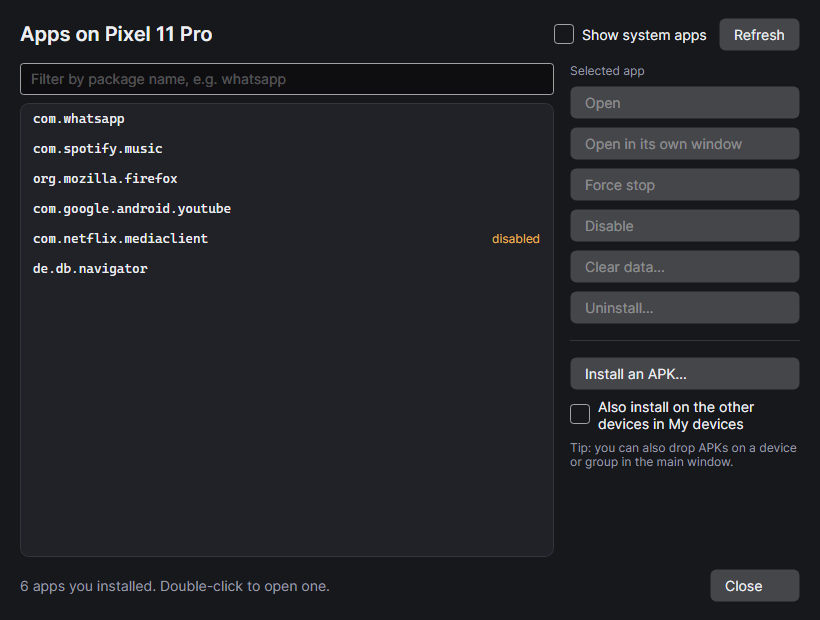
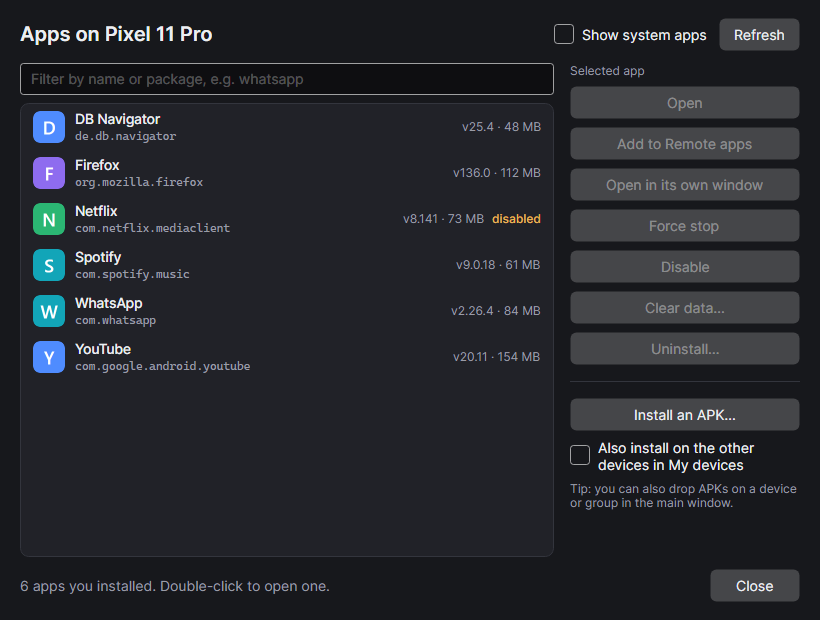
Prepare 1.0.0-beta.5 release: changelog, README, and refreshed screenshots
- Bump Paneless.App version to 1.0.0-beta.5
- Add 1.0.0-beta.5 release notes to CHANGELOG.md covering Phone-to-PC tools, MCP updates, UI polish, Android 17/HyperOS fixes, and idle battery savings
- Update README.md with zero-install Phone-to-PC tools (Files & photos, clipboard sync, Quick controls, Locate device, OTP auto-copy, app handoff), battery optimizations, Settings backup/reset, updated MCP permissions table, and accurate helper/privacy notes
- Refresh 7 screenshots (settings, device-settings, apps, remote-apps, automation, inventory, toolbar) and add files.png and controls.png

diff --git a/README.md b/README.md
@@ -12,9 +12,10 @@
 </p>
 
 <p align="center">
-  <b>Painless screen mirroring, Remote apps and device management for your Android devices.</b><br>
+  <b>Painless screen mirroring, Remote apps, Phone-to-PC sync and device management for Android.</b><br>
   Connects phones, tablets and watches over Wi-Fi or USB, mirrors any screen with one click,<br>
-  runs Android apps like native Windows programs with their own icons and shortcuts, and manages one device or a whole fleet at once.<br>
+  runs Android apps like native Windows programs with their own icons and shortcuts, syncs files, clipboard and quick controls,<br>
+  and manages one device or a whole fleet — with <b>no Android app to install</b>.<br>
   Built on <a href="https://github.com/Genymobile/scrcpy">scrcpy</a>, with an interface made with <a href="https://avaloniaui.net/">Avalonia</a>.
 </p>
 
@@ -54,14 +55,15 @@
 
 - **See:** a live list of every device over Wi-Fi or USB, with status and battery, and their screens on your PC with a toolbar on every mirror.
 - **Run Android apps like PC programs (Remote apps):** open any app in its own resizable window with its real icon, taskbar button, and desktop/Start menu shortcuts—even while the phone stays locked and its screen stays off.
+- **Stay in sync (no phone app required):** browse files and photos with thumbnails, auto-download new photos and screenshots, sync your text clipboard live, toggle quick settings & media, copy 2FA codes, or ring a misplaced phone.
 - **Manage:** organise devices in groups, then act on one device or a whole group at once.
-  - Install or remove apps.
+  - Install or remove apps (with real app icons).
   - Copy files.
   - Run adb scripts.
   - Apply settings.
-- **Control:** use your keyboard and mouse on a device, map keys for games, or do something once and have it happen on every device of a group.
-- **Automate:** set devices up with recipes, run tasks on a schedule, get alerts when a battery runs low or an app crashes, and run scripts every time a device connects (e.g. turn off Doze).
-- **Ask an AI assistant:** let Claude, Codex, Gemini CLI or another MCP app answer questions about your devices or work on them for you, within the limits you set per device.
+- **Control:** use your keyboard and mouse on a device, map keys for games, pop an open phone app straight into its own PC window, or do something once and have it happen on every device of a group.
+- **Automate:** set devices up with recipes, run tasks on a schedule, get alerts when a battery runs low, a device gets hot or an app crashes, and run scripts every time a device connects (e.g. turn off Doze).
+- **Ask an AI assistant:** let Claude, Codex, Gemini CLI, Cursor or another MCP app inspect screens (screenshots or semantic UI tree), answer questions, or work on your devices within the limits you set per device.
 
 That makes it handy at home with a phone and a tablet, and just as useful with a shelf of test devices, kiosk tablets or a family's phones.
 
@@ -93,10 +95,20 @@ The interface is built with [Avalonia](https://avaloniaui.net/), a cross-platfor
 - Rotate, back, home, recent apps, volume, power.
 - Screen off, notifications, quick settings.
 - Screenshot, record, camera, type the PC clipboard.
+- **App handoff:** *Pop out current app* moves the app on your phone into its own PC window; *Send back to phone* returns a virtual-display app to the device screen.
 - **Key mapping** for games: keys become taps and a WASD or arrow-key joystick.
 - **Group control:** what you do on one device happens on the whole group.
 
 <p align="center"><img src="docs/images/toolbar.png" height="420" alt="Mirror toolbar">&nbsp;&nbsp;<img src="docs/images/groups.png" width="560" alt="Group manager"></p>
+
+**Phone-to-PC tools (zero Android app installed)**
+- **Files & photos browser:** browse folders with EXIF-aware photo and video thumbnails, upload or download files, and optionally auto-download new photos and screenshots straight to `Documents\Paneless\Media\<Device>`.
+- **Always-on clipboard sync** *(opt-in per device or group)*: instant two-way text clipboard sync between Windows and Android without mirroring open.
+- **Quick controls & media:** toggle Dark mode, Do Not Disturb, Auto-rotate, Wi-Fi and Bluetooth, adjust brightness and volume sliders, and control Now Playing media.
+- **Locate device:** blink the flashlight, vibrate and chime a misplaced device from the Devices or Wall menu.
+- **Opt-in 2FA / OTP auto-copy:** copies incoming verification codes from Android notifications straight to your Windows clipboard (EN, DE, FR).
+
+<p align="center"><img src="docs/images/files.png" width="490" alt="Files and photos browser">&nbsp;&nbsp;<img src="docs/images/controls.png" width="260" alt="Quick controls and media"></p>
 
 **Managing devices, one or a whole fleet**
 - **Act on a group in one go:** drop an APK on a group heading to install it on every device in it; send files the same way; run a script on the whole group.
@@ -105,8 +117,8 @@ The interface is built with [Avalonia](https://avaloniaui.net/), a cross-platfor
   - Fields like `{package}` are asked for when a script runs.
   - Risky scripts ask first.
 - **Run scripts automatically** every time a device connects, e.g. *Turn off Doze*, so settings that reset on restart stay the way you want.
-- **App manager:** open, force-stop, disable, clear data, uninstall, install APKs (also on a whole group).
-- **Settings per device or group:** mirror quality, behaviour on connect, a folder for files.
+- **App manager:** friendly app names with real icons, version and APK size; open, force-stop, disable, clear data, uninstall, install APKs (also on a whole group), or add straight to Remote apps.
+- **Settings per device or group:** mirror quality, behaviour on connect, sync options, a folder for files.
 - **Group control:** do something on one device and it happens on every connected device of its group.
 
 <p align="center"><img src="docs/images/scripts.png" width="760" alt="Scripts window"></p>
@@ -129,8 +141,10 @@ The interface is built with [Avalonia](https://avaloniaui.net/), a cross-platfor
 - Paneless can be a tool for Claude, Codex, Gemini CLI and other AI apps that support [MCP](https://modelcontextprotocol.io). Ask about your devices, or let the assistant install apps, run scripts or operate a screen. See [AI assistants](#ai-assistants).
 
 **Around the app**
-- Notification-area icon, optional start with Windows.
+- Notification-area icon, optional start with Windows, and keyboard navigation (`Ctrl+1`–`Ctrl+7` for pages, `Ctrl+,` for Settings).
 - A global shortcut per device (e.g. Ctrl+Alt+P).
+- **Battery-friendly in the background:** slows and pauses battery polling when minimized, shuts down its idle device helper automatically, and disconnects idle Wi-Fi devices after 5 minutes in the tray so phones stay in Android Deep Doze (reconnecting automatically when you open Paneless or launch a shortcut).
+- **Settings backup & factory reset:** export and import your configuration (optionally including saved devices, groups, profiles and remote apps — unlock codes are never exported) or reset to defaults in **Settings**.
 - **Automatic updates** from GitHub Releases: downloaded in the background and installed when you close Paneless. Can be turned off.
 - **Share scripts:** export one or all of your scripts as a file or to the clipboard; import from a file, the clipboard or a link (e.g. a GitHub Gist). Imported scripts are shown before they're added and ask before running.
 - **Light and dark mode**, following the system theme by default and switching live in Settings.
@@ -180,10 +194,17 @@ From then on, plugged-in USB devices appear immediately, and paired Wi-Fi device
 | Restart devices every night | **Automation › Scheduled tasks › + New** |
 | Get told about low batteries or crashes | **Automation › Alerts** |
 | Use an Android app like a PC program | **Remote apps › Add an app…**, then **Open** or **Create shortcut** |
+| Browse files and photos on a device | Right-click › **Files and photos…** (or **More › Files and photos…**) |
+| Toggle Dark mode, DND, volume or media | Right-click › **Quick controls…** (or **More › Quick controls…**) |
+| Sync clipboard, photos or 2FA codes | **Device settings…** (or **Group settings…**), tick the sync options you want |
+| Pop the phone's current app into a PC window | Right-click › **Pop out current app** (or the mirror toolbar) |
+| Ring & flash a misplaced phone | Right-click › **Locate device** (also on the **Wall**) |
 | See every screen at once | **Wall** |
-| Find out why an app crashes | **Logs**, then **Crashes only** |
+| Find out why an app crashes | **Logs** (at the bottom of the left bar), then **Crashes only** |
 | Get a list of all devices for Excel | **Inventory › Read devices › Export** |
 | Share a script | **Scripts**, select it, **Share** (to add one: **Import**) |
+| Back up or reset Paneless settings | **Settings › Backup and reset** |
+| Switch pages with the keyboard | `Ctrl+1`–`Ctrl+7` for pages, `Ctrl+,` for **Settings** |
 | Switch light / dark mode | **Settings › Appearance** (follows the system theme by default) |
 | Change the language | **Settings › Language**, then restart Paneless |
 
@@ -217,7 +238,7 @@ Use Android apps like programs on your PC, the way Windows' RemoteApp works over
 
 What Android doesn't allow: apps that block screen capture (banking, some video apps) show a black window, an app can only be open in one place at a time (opening it on the PC takes it off the phone's screen), and there's no sound per app. A few apps don't like a second screen and jump back to the phone.
 
-The app names and icons come from a small helper that Paneless copies to the device (like scrcpy's own server) and runs for a moment. It only reads, installs nothing and keeps nothing running.
+App icons, Files & photos, Quick controls, clipboard sync, fast Wall captures and semantic UI trees are powered by a small helper (`paneless-helper`) that Paneless pushes to `/data/local/tmp` and runs over a local ADB socket (just like scrcpy's own server). It installs no Android app, holds no wakelocks, and shuts itself down automatically after 2 minutes idle (60 s on watches) whenever no background sync watcher or open tool window needs it.
 
 ## AI assistants
 
@@ -243,10 +264,10 @@ ChatGPT and Gemini in a web browser can't reach programs on your PC, so they can
 | Level | Assistants may… |
 |---|---|
 | Nothing | not see the device at all |
-| Read | see status, battery, apps, remote apps and the log |
-| See | also take screenshots |
-| Control | also tap, swipe, type, open apps / remote apps, and unlock/lock using your saved code (never revealed to the assistant) |
-| Manage | also install and remove apps, copy files, run scripts, recipes and commands, restart |
+| Read | see status, battery, apps, remote apps, running apps, files list, clipboard, controls/media state and the log |
+| See | also take screenshots and inspect the semantic UI tree (`read_ui_tree`, with password fields redacted) |
+| Control | also tap/swipe/type, act on UI elements by label (`ui_action`), open apps / remote apps / URLs, hand off apps between displays, set clipboard, toggle quick controls/media, locate device, and unlock/lock using your saved code (never revealed to the assistant) |
+| Manage | also install and remove apps, pull/copy files, run scripts, recipes and commands, restart |
 
 By default assistants may only **read**, and Paneless asks you before one changes anything, naming the app that asks (*Allow once*, *Allow for 15 minutes* or *Don't allow*). **Pause** refuses everything until you resume, and the page lists what each assistant did. Paneless never gives an assistant your unlock codes, and marks every tool with standard MCP `readOnlyHint` / `destructiveHint` annotations.
 
@@ -254,6 +275,7 @@ By default assistants may only **read**, and Paneless asks you before one change
 - *"Which of my devices have less than 20 % battery?"*
 - *"Unlock the Pixel, open Settings and turn on dark mode, then lock it again."*
 - *"Install `C:\Builds\app.apk` on the Test lab group."*
+- *"Ring my Pixel so I can find it, or pull the latest screenshot from `DCIM/Screenshots`."*
 - *"Why does my app crash on the tablet? Read its log."*
 
 <details>
@@ -279,12 +301,13 @@ Paneless has to be running (it starts in the notification area by itself when an
 
 ## Privacy and security
 
-- **Local only.** Paneless talks to your devices over your own network with adb and scrcpy. It sends nothing anywhere else, with two exceptions:
+- **Local only.** Paneless talks to your devices over your own network with adb, scrcpy and its local in-RAM helper (no APK installed, no wakelocks, auto-stops when idle). It sends nothing anywhere else, with two exceptions:
   - Update checks ask GitHub for the newest release (switch off in **Settings › Updates**).
-  - If you connect an AI assistant, what it reads through Paneless (device facts, logs, screenshots) becomes part of your conversation with that AI service. Only the devices and levels you allow are visible to it.
+  - If you connect an AI assistant, what it reads through Paneless (device facts, logs, screenshots, UI tree) becomes part of your conversation with that AI service. Only the devices and levels you allow are visible to it.
 - **Unlock codes** are encrypted with Windows DPAPI, the protection Credential Manager and browsers use. Only your Windows account on this PC can read them (on macOS the keychain, on Linux the Secret Service).
   - A code is typed only after Paneless confirms the device is locked and its lock screen is in front.
   - One failed try pauses auto-unlock for that device.
+  - Unlock codes are **never** included in Settings backups and never revealed to AI assistants.
 - **Wireless debugging** gives full control of a device to any computer you paired. Only pair computers you trust, and turn it off on networks you don't.
 - Found a vulnerability? Please see [SECURITY.md](SECURITY.md).
 

diff --git a/CHANGELOG.md b/CHANGELOG.md
@@ -2,6 +2,34 @@
 
 All notable changes to Paneless. Versions follow [Semantic Versioning](https://semver.org).
 
+## 1.0.0-beta.5 (2026-11-23)
+
+Zero-install Phone-to-PC continuity (Files & photos, live clipboard sync, Quick controls, app handoff, Locate device), smarter AI/MCP tools, a cleaner UI, major Android 17 & HyperOS fixes, and idle phone battery savings.
+
+**Phone-to-PC tools (zero Android app to install)**
+- **Files & photos browser:** browse folders on any device with EXIF-aware photo and video thumbnails, upload/download files, and optionally auto-download new photos and screenshots straight into `Documents\Paneless\Media\<Device>`.
+- **Always-on clipboard sync** (opt-in per device or group): instant two-way text clipboard sync between Windows and Android without needing a mirror window open.
+- **Quick controls & media:** toggle Dark mode, Do Not Disturb, Auto-rotate, Wi-Fi and Bluetooth, adjust brightness and volume sliders, and control Now Playing media from your PC.
+- **Locate device:** blink the rear flashlight, vibrate and chime a misplaced phone or tablet from the Devices or Wall menu.
+- **Opt-in 2FA / OTP auto-copy:** copy incoming one-time verification codes from Android notifications straight to your Windows clipboard (English, German and French).
+- **App handoff:** *Pop out current app* moves the app on your phone into its own PC window; *Send back to phone* returns a virtual-display app to the device screen.
+- **Faster Wall & thermal alerts:** on-device downscaled JPEG capture (~20 KB instead of ~3 MB PNG), event-driven screen-off detection, instant camera orientation while a camera window is open, and push overheat alerts.
+
+**AI assistants (MCP)**
+- **Semantic UI automation:** new `read_ui_tree` and `ui_action` tools let AI assistants inspect and tap elements by text or label without taking a screenshot on every step (password fields are automatically redacted).
+- **More device tools:** `unlock_device` and `lock_device` (using Paneless' locally stored DPAPI unlock code without ever revealing it to the AI, following the normal confirmation / 15-minute grant rule), `list_remote_apps`, `open_remote_app`, `get_clipboard` / `set_clipboard`, `list_files` / `pull_file`, `list_running_apps`, `move_app_to_display`, `open_url`, `get_device_controls` / `set_device_control`, `media_control`, and `locate_device`.
+- **Better MCP compliance & setup:** standard MCP 2025 tool annotations (`readOnlyHint` / `destructiveHint` / `idempotentHint` / `openWorldHint`), 1-click **Cursor** setup (`~/.cursor/mcp.json`), green `✓ Configured in …` status badge, VS Code guidance, and fast fail (~2.5 s instead of 25 s) when Paneless is already running with AI access off.
+
+**UI, apps & settings**
+- **Cleaner navigation & layout:** moved **Logs** down above **Settings** with subtle dividers, added a left active accent pill, cogwheel Settings icon, subtle live status dots on **AI** and **Logs**, `Ctrl+1`–`Ctrl+7` / `Ctrl+,` shortcuts, slimmer sub-page headers, context-aware search with inline clear button, centered button labels, monospace metric columns, and a refined AI JSON code box.
+- **Real app icons in the App manager:** friendly app names, lazy-loaded app icons, and version/APK size details.
+- **Settings backup & factory reset:** export and import settings (optionally including saved devices, groups, profiles and remote apps; unlock codes are never exported) and reset to defaults under **Settings**.
+
+**Battery savings & real-device fixes**
+- **Idle phone battery savings:** slowed/paused background battery polling when Paneless is minimized or in the tray, automatic idle helper shutdown after 2 min (60 s on watches) when no background sync watcher or live tool needs it, and **Settings › Connecting › Disconnect idle Wi-Fi devices while in the background** (on by default; disconnects idle Wi-Fi ADB connections after 5 min in the tray so phones stay in Deep Doze, and reconnects seamlessly on demand).
+- **Android 17 (Pixel) fixes:** fixed black mirror / failed auto-unlock when virtual displays existed (`dumpsys window` multi-display parsing, waking Display 0 from Doze, `--keep-active`), and fixed helper startup on Android 17 (`KeyguardManager` / `ApplicationSharedMemory`).
+- **Tablet Remote apps fix (HyperOS / desktop mode):** new virtual displays now use natural phone/tablet DPI and force `WINDOWING_MODE_FULLSCREEN`, so Remote apps fill the window edge-to-edge instead of opening as small centered floating windows.
+
 ## 1.0.0-beta.4 (2026-11-22)
 
 Remote apps, a much more capable Wall, better USB support and a few fixes.
